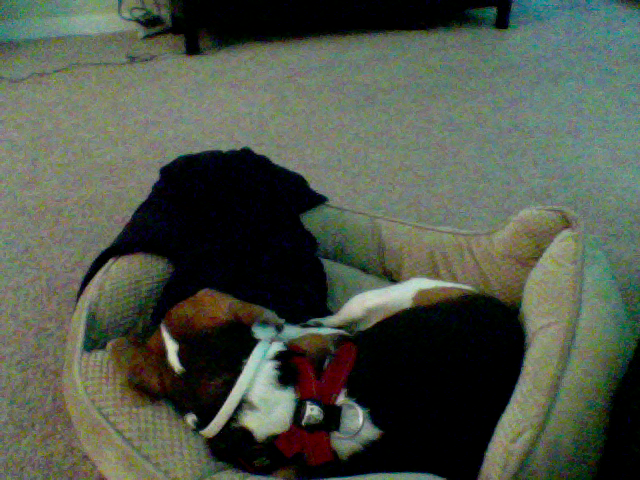
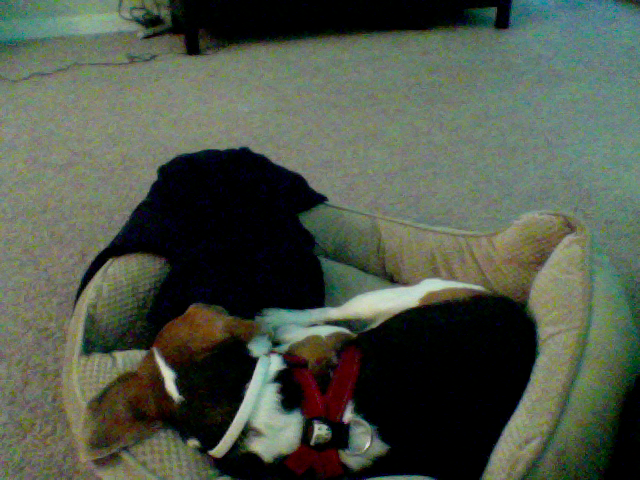
update at Month05Day12Time10:22

diff --git a/index.html b/index.html
@@ -39,8 +39,8 @@
       <!-- Example row of columns -->
       <div class="row">
         <div class="col-md-4">
-	<p>This picture was updated at Month05Day12Time10:21</p>
-		<img src="6_pic.png" />
+	<p>This picture was updated at Month05Day12Time10:22</p>
+		<img src="4_pic.png" />
         </div>
       </div>
 
